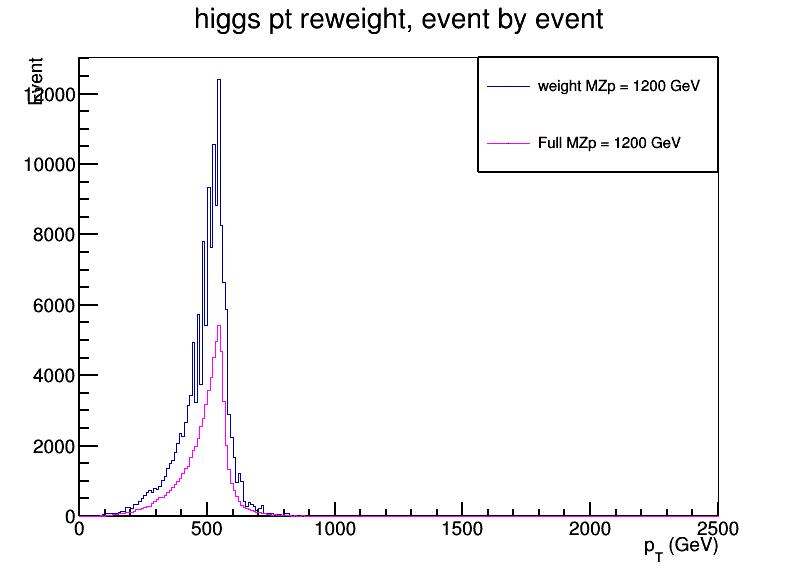
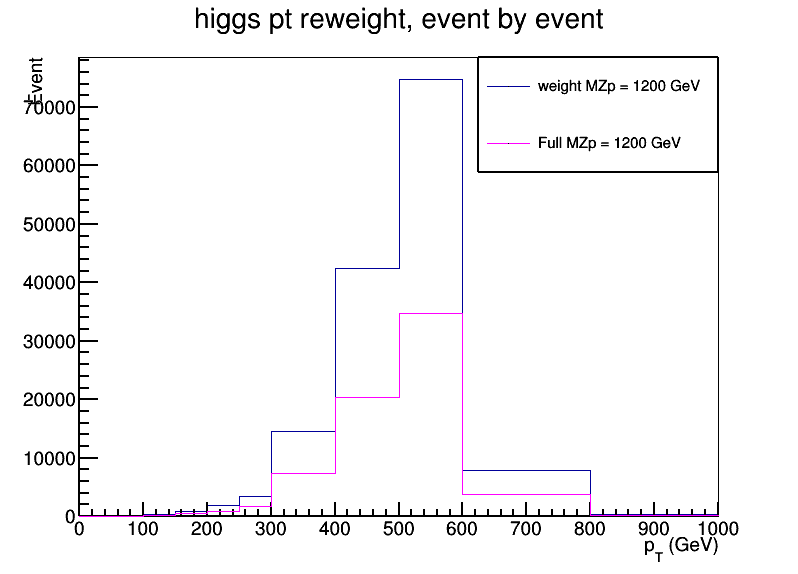
rebin histogram

diff --git a/xAna_higgsPtReweight.C b/xAna_higgsPtReweight.C
@@ -92,15 +92,17 @@ void xAna_higgsPtReweight(string inputFile="ZprimeToA0hToA0chichihbb_2HDM_MZp-10
     h_mzp1000ma0300_full->Draw("histsame");
     c1->SaveAs("DMD_higgsPt.png");
   */
-    
-    h_mzp1200ma0300_reweight->SetTitle("higgs pt reweight, event by event");
-    h_mzp1200ma0300_reweight->SetXTitle("p_{T} (GeV)");
-    h_mzp1200ma0300_reweight->SetYTitle("Event");
-    h_mzp1200ma0300_reweight->Draw("hist");
-    h_mzp1200ma0300_full->SetLineColor(6);
-    h_mzp1200ma0300_full->Draw("histsame");
-    leg->AddEntry(h_mzp1200ma0300_reweight,"weight MZp = 1200 GeV");
-    leg->AddEntry(h_mzp1200ma0300_full,"Full MZp = 1200 GeV");
+    Double_t ptbins[] = {0,50,100,150,200,250,300,400,500,600,800,1000};
+    TH1F *h_mzp1200ma0300_reweight_rebin = (TH1F*) h_mzp1200ma0300_reweight->Rebin(11,"h_mzp1200ma0300_reweight_rebin",ptbins);
+    TH1F *h_mzp1200ma0300_full_rebin = (TH1F*) h_mzp1200ma0300_full->Rebin(11,"h_mzp1200ma0300_full_rebin",ptbins);
+    h_mzp1200ma0300_reweight_rebin->SetTitle("higgs pt reweight, event by event");
+    h_mzp1200ma0300_reweight_rebin->SetXTitle("p_{T} (GeV)");
+    h_mzp1200ma0300_reweight_rebin->SetYTitle("Event");
+    h_mzp1200ma0300_reweight_rebin->Draw("hist");
+    h_mzp1200ma0300_full_rebin->SetLineColor(6);
+    h_mzp1200ma0300_full_rebin->Draw("histsame");
+    leg->AddEntry(h_mzp1200ma0300_reweight_rebin,"weight MZp = 1200 GeV");
+    leg->AddEntry(h_mzp1200ma0300_full_rebin,"Full MZp = 1200 GeV");
     leg->Draw();
 
     //save output
